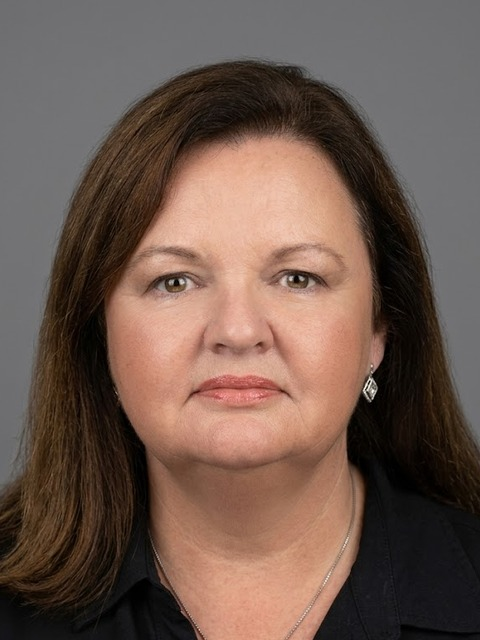
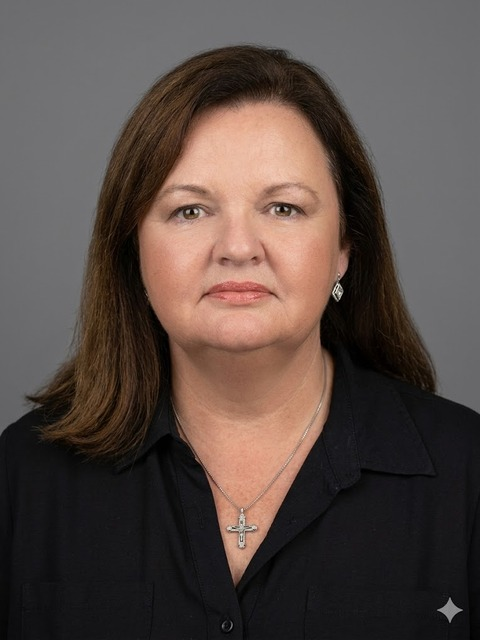
fix(elmsflow): precise 3:4 crop per photo, full shoulders visible, frame matches ratio

diff --git a/content/pitch-decks/elmsflow/sections/ShareholdersSection.tsx b/content/pitch-decks/elmsflow/sections/ShareholdersSection.tsx
@@ -168,7 +168,7 @@ export function ShareholdersSection() {
               </div>
 
               {/* Photo with pulsing ring */}
-              <div className="relative w-28 h-40 md:w-32 md:h-44 mb-4">
+              <div className="relative w-28 h-[9.3rem] md:w-32 md:h-[10.7rem] mb-4">
                 {/* Pulse ring (animates on hover) */}
                 <motion.span
                   className="absolute inset-0 rounded-2xl border-2 border-emerald-400/0 group-hover:border-emerald-400/60"
@@ -181,7 +181,7 @@ export function ShareholdersSection() {
                     alt={m.name}
                     fill
                     sizes="(max-width: 768px) 112px, 128px"
-                    className="object-cover object-[center_8%]"
+                    className="object-cover object-top"
                   />
                 </div>
               </div>
